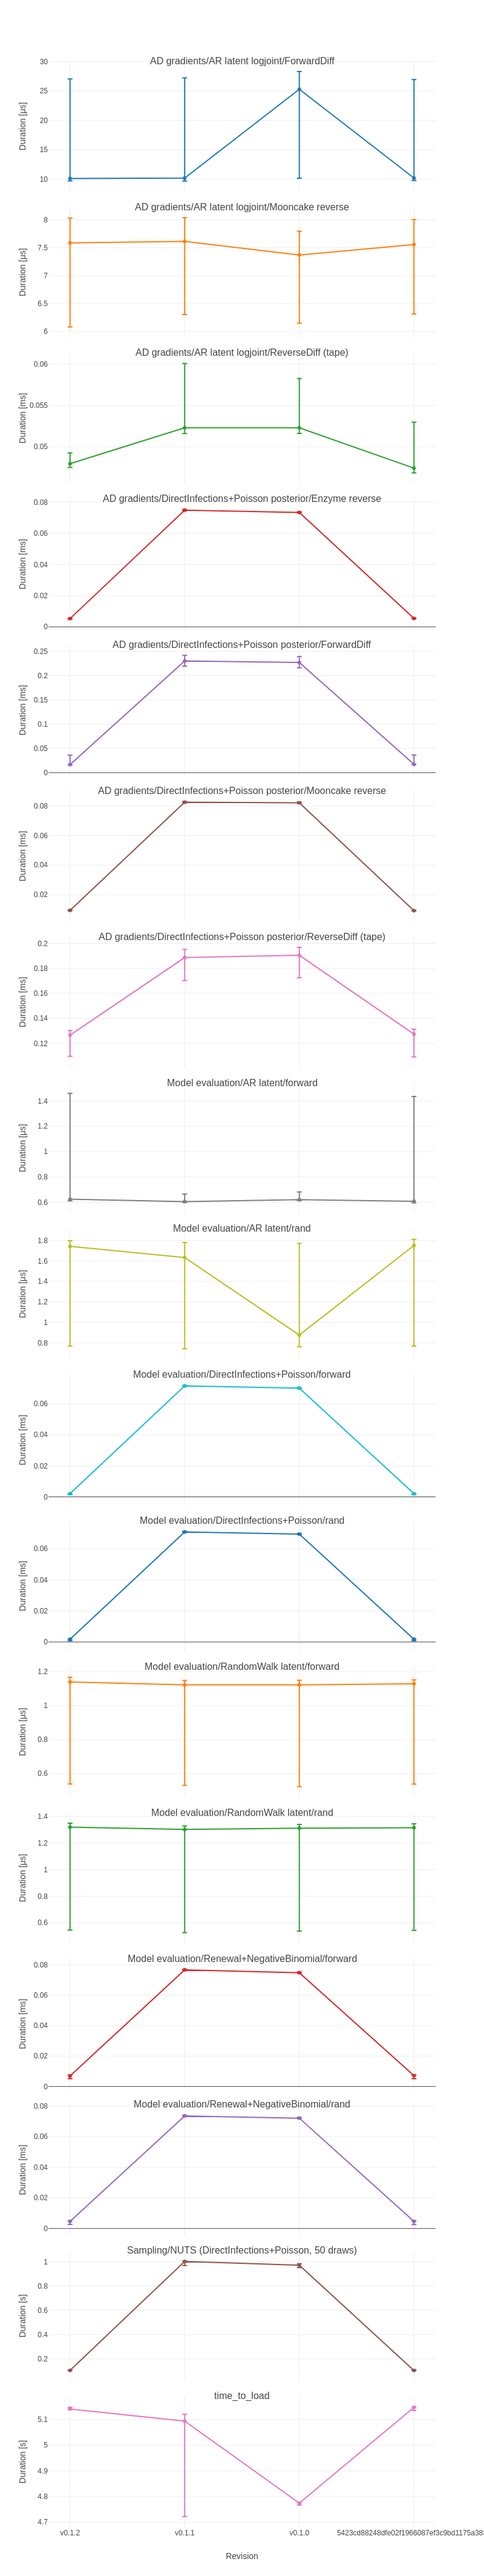
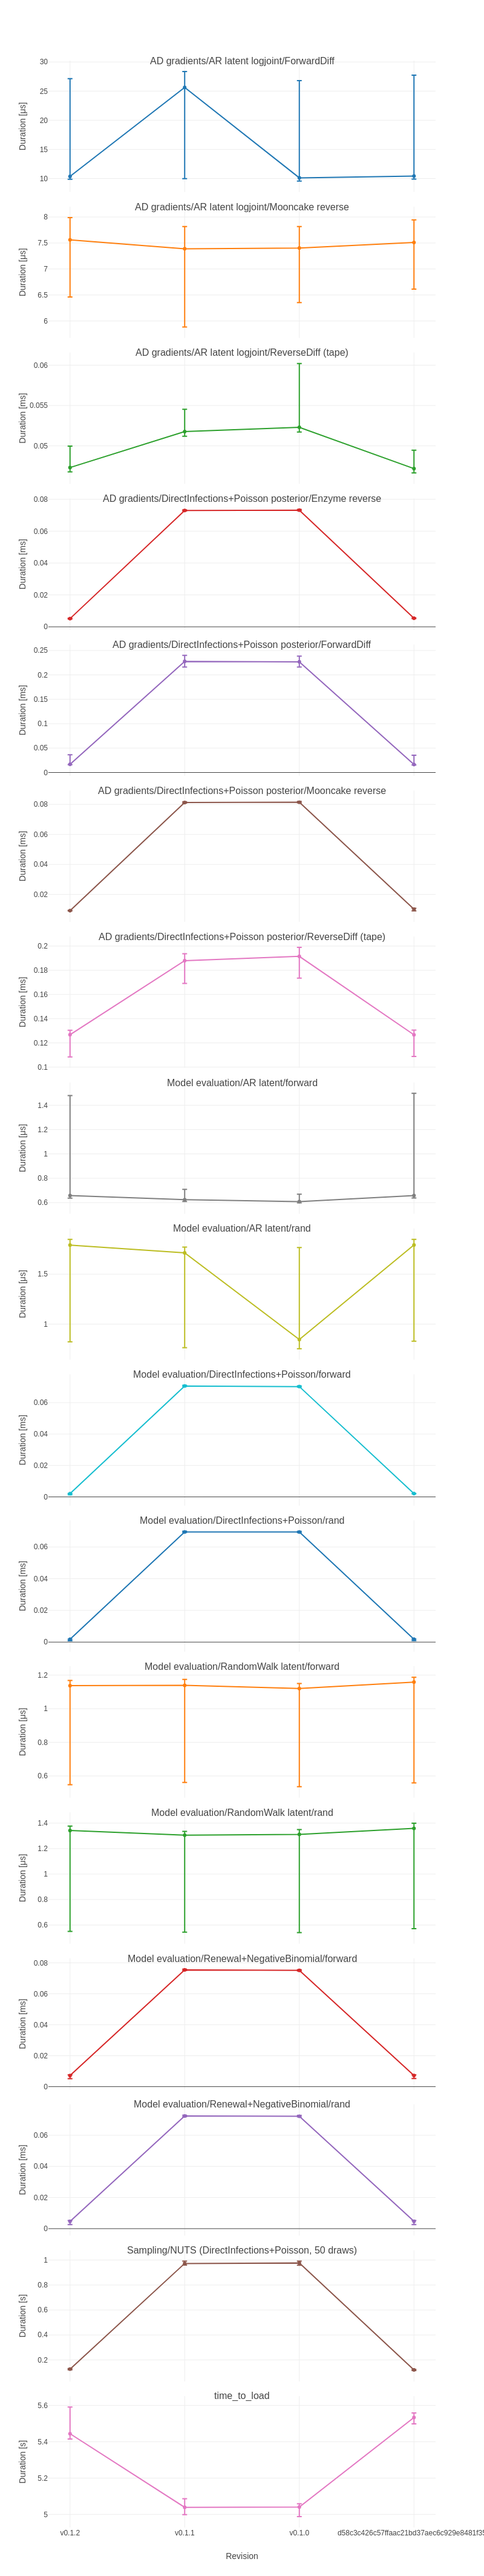
Deploying to benchmarks from @ EpiAware/ComposableTuringIDModels.jl@d58c3c426c57ffaac21bd37aec6c929e8481f354 🚀

Changed region(s): [[0.375, 0.9318, 0.4062, 0.9628], [0.375, 0.4659, 0.4062, 0.4969]]

diff --git a/history/table.md b/history/table.md
@@ -1,24 +1,24 @@
-|                                                                    | v0.1.2            | v0.1.1              | v0.1.0              | 5423cd88248dfe...  |
-|:-------------------------------------------------------------------|:-----------------:|:-------------------:|:-------------------:|:------------------:|
-| AD gradients/AR latent logjoint/ForwardDiff                        | 10.1 ± 17 μs      | 10.2 ± 18 μs        | 25.3 ± 18 μs        | 10.2 ± 17 μs       |
-| AD gradients/AR latent logjoint/Mooncake reverse                   | 7.59 ± 1.9 μs     | 7.61 ± 1.7 μs       | 7.37 ± 1.6 μs       | 7.56 ± 1.7 μs      |
-| AD gradients/AR latent logjoint/ReverseDiff (tape)                 | 0.048 ± 0.0018 ms | 0.0523 ± 0.0085 ms  | 0.0523 ± 0.0066 ms  | 0.0474 ± 0.0061 ms |
-| AD gradients/DirectInfections+Poisson posterior/Enzyme reverse     | 5.29 ± 0.41 μs    | 0.0748 ± 0.00077 ms | 0.0734 ± 0.00077 ms | 5.4 ± 0.41 μs      |
-| AD gradients/DirectInfections+Poisson posterior/ForwardDiff        | 16.7 ± 20 μs      | 0.23 ± 0.022 ms     | 0.227 ± 0.023 ms    | 17.2 ± 20 μs       |
-| AD gradients/DirectInfections+Poisson posterior/Mooncake reverse   | 9.35 ± 0.43 μs    | 0.0826 ± 0.00092 ms | 0.0822 ± 0.001 ms   | 9.16 ± 0.37 μs     |
-| AD gradients/DirectInfections+Poisson posterior/ReverseDiff (tape) | 0.127 ± 0.021 ms  | 0.189 ± 0.025 ms    | 0.19 ± 0.024 ms     | 0.127 ± 0.022 ms   |
-| Model evaluation/AR latent/forward                                 | 0.625 ± 0.85 μs   | 0.606 ± 0.067 μs    | 0.621 ± 0.07 μs     | 0.608 ± 0.84 μs    |
-| Model evaluation/AR latent/rand                                    | 1.74 ± 1 μs       | 1.63 ± 1 μs         | 0.876 ± 1 μs        | 1.75 ± 1 μs        |
-| Model evaluation/DirectInfections+Poisson/forward                  | 2.06 ± 0.77 μs    | 0.0715 ± 0.00069 ms | 0.0701 ± 0.0007 ms  | 2.04 ± 0.82 μs     |
-| Model evaluation/DirectInfections+Poisson/rand                     | 1.78 ± 1 μs       | 0.0708 ± 0.00073 ms | 0.0694 ± 0.00069 ms | 1.79 ± 1 μs        |
-| Model evaluation/RandomWalk latent/forward                         | 1.14 ± 0.63 μs    | 1.12 ± 0.62 μs      | 1.12 ± 0.63 μs      | 1.13 ± 0.61 μs     |
-| Model evaluation/RandomWalk latent/rand                            | 1.32 ± 0.8 μs     | 1.3 ± 0.8 μs        | 1.31 ± 0.8 μs       | 1.32 ± 0.8 μs      |
-| Model evaluation/Renewal+NegativeBinomial/forward                  | 6.9 ± 2.3 μs      | 0.0767 ± 0.00081 ms | 0.0748 ± 0.00079 ms | 7.15 ± 2.3 μs      |
-| Model evaluation/Renewal+NegativeBinomial/rand                     | 4.59 ± 2.5 μs     | 0.0735 ± 0.00086 ms | 0.0721 ± 0.00094 ms | 4.62 ± 2.5 μs      |
-| Sampling/NUTS (DirectInfections+Poisson, 50 draws)                 | 0.105 ± 0.0032 s  | 1 ± 0.036 s         | 0.972 ± 0.033 s     | 0.105 ± 0.0069 s   |
-| time_to_load                                                       | 5.14 ± 0.0074 s   | 5.09 ± 0.4 s        | 4.77 ± 0.0094 s     | 5.15 ± 0.013 s     |
+|                                                                    | v0.1.2             | v0.1.1              | v0.1.0              | d58c3c426c57ff...  |
+|:-------------------------------------------------------------------|:------------------:|:-------------------:|:-------------------:|:------------------:|
+| AD gradients/AR latent logjoint/ForwardDiff                        | 10.4 ± 17 μs       | 25.6 ± 18 μs        | 10.1 ± 17 μs        | 10.4 ± 18 μs       |
+| AD gradients/AR latent logjoint/Mooncake reverse                   | 7.56 ± 1.5 μs      | 7.39 ± 1.9 μs       | 7.4 ± 1.5 μs        | 7.51 ± 1.3 μs      |
+| AD gradients/AR latent logjoint/ReverseDiff (tape)                 | 0.0473 ± 0.0032 ms | 0.0518 ± 0.0033 ms  | 0.0523 ± 0.0085 ms  | 0.0472 ± 0.0028 ms |
+| AD gradients/DirectInfections+Poisson posterior/Enzyme reverse     | 5.15 ± 0.42 μs     | 0.073 ± 0.00068 ms  | 0.0732 ± 0.00076 ms | 5.39 ± 0.4 μs      |
+| AD gradients/DirectInfections+Poisson posterior/ForwardDiff        | 16.8 ± 20 μs       | 0.228 ± 0.024 ms    | 0.227 ± 0.022 ms    | 16.4 ± 20 μs       |
+| AD gradients/DirectInfections+Poisson posterior/Mooncake reverse   | 9.18 ± 0.37 μs     | 0.0813 ± 0.00086 ms | 0.0815 ± 0.00097 ms | 10.1 ± 1.7 μs      |
+| AD gradients/DirectInfections+Poisson posterior/ReverseDiff (tape) | 0.127 ± 0.022 ms   | 0.188 ± 0.024 ms    | 0.191 ± 0.025 ms    | 0.127 ± 0.022 ms   |
+| Model evaluation/AR latent/forward                                 | 0.658 ± 0.84 μs    | 0.624 ± 0.1 μs      | 0.609 ± 0.071 μs    | 0.658 ± 0.86 μs    |
+| Model evaluation/AR latent/rand                                    | 1.79 ± 1 μs        | 1.71 ± 1 μs         | 0.845 ± 1 μs        | 1.79 ± 1 μs        |
+| Model evaluation/DirectInfections+Poisson/forward                  | 2.06 ± 0.82 μs     | 0.0706 ± 0.00077 ms | 0.0702 ± 0.00077 ms | 2.11 ± 0.24 μs     |
+| Model evaluation/DirectInfections+Poisson/rand                     | 1.8 ± 0.97 μs      | 0.0695 ± 0.00076 ms | 0.0694 ± 0.00071 ms | 1.82 ± 0.97 μs     |
+| Model evaluation/RandomWalk latent/forward                         | 1.14 ± 0.62 μs     | 1.14 ± 0.61 μs      | 1.12 ± 0.61 μs      | 1.16 ± 0.63 μs     |
+| Model evaluation/RandomWalk latent/rand                            | 1.34 ± 0.83 μs     | 1.31 ± 0.79 μs      | 1.31 ± 0.81 μs      | 1.36 ± 0.83 μs     |
+| Model evaluation/Renewal+NegativeBinomial/forward                  | 7.16 ± 2.4 μs      | 0.0754 ± 0.00081 ms | 0.0751 ± 0.00085 ms | 7.2 ± 2.4 μs       |
+| Model evaluation/Renewal+NegativeBinomial/rand                     | 4.69 ± 2.6 μs      | 0.0724 ± 0.00096 ms | 0.0722 ± 0.001 ms   | 4.71 ± 2.6 μs      |
+| Sampling/NUTS (DirectInfections+Poisson, 50 draws)                 | 0.126 ± 0.011 s    | 0.973 ± 0.031 s     | 0.977 ± 0.033 s     | 0.12 ± 0.0089 s    |
+| time_to_load                                                       | 5.44 ± 0.18 s      | 5.04 ± 0.088 s      | 5.04 ± 0.071 s      | 5.53 ± 0.06 s      |
 
-|                                                                    | v0.1.2                    | v0.1.1                    | v0.1.0                    | 5423cd88248dfe...         |
+|                                                                    | v0.1.2                    | v0.1.1                    | v0.1.0                    | d58c3c426c57ff...         |
 |:-------------------------------------------------------------------|:-------------------------:|:-------------------------:|:-------------------------:|:-------------------------:|
 | AD gradients/AR latent logjoint/ForwardDiff                        | 0.059 k allocs: 0.0512 MB | 0.056 k allocs: 0.0508 MB | 0.056 k allocs: 0.0508 MB | 0.059 k allocs: 0.0512 MB |
 | AD gradients/AR latent logjoint/Mooncake reverse                   | 0.043 k allocs: 4.64 kB   | 0.036 k allocs: 4.42 kB   | 0.036 k allocs: 4.42 kB   | 0.043 k allocs: 4.64 kB   |

diff --git a/history/README.md b/history/README.md
@@ -1,6 +1,6 @@
 # ComposableTuringIDModels.jl benchmark history
 
-Revisions: v0.1.2,v0.1.1,v0.1.0,5423cd88248dfe02f1966087ef3c9bd1175a3835
+Revisions: v0.1.2,v0.1.1,v0.1.0,d58c3c426c57ffaac21bd37aec6c929e8481f354
 
 See `table.md` for the ratio summary and the PNG
 files in this folder for per-benchmark timelines.
